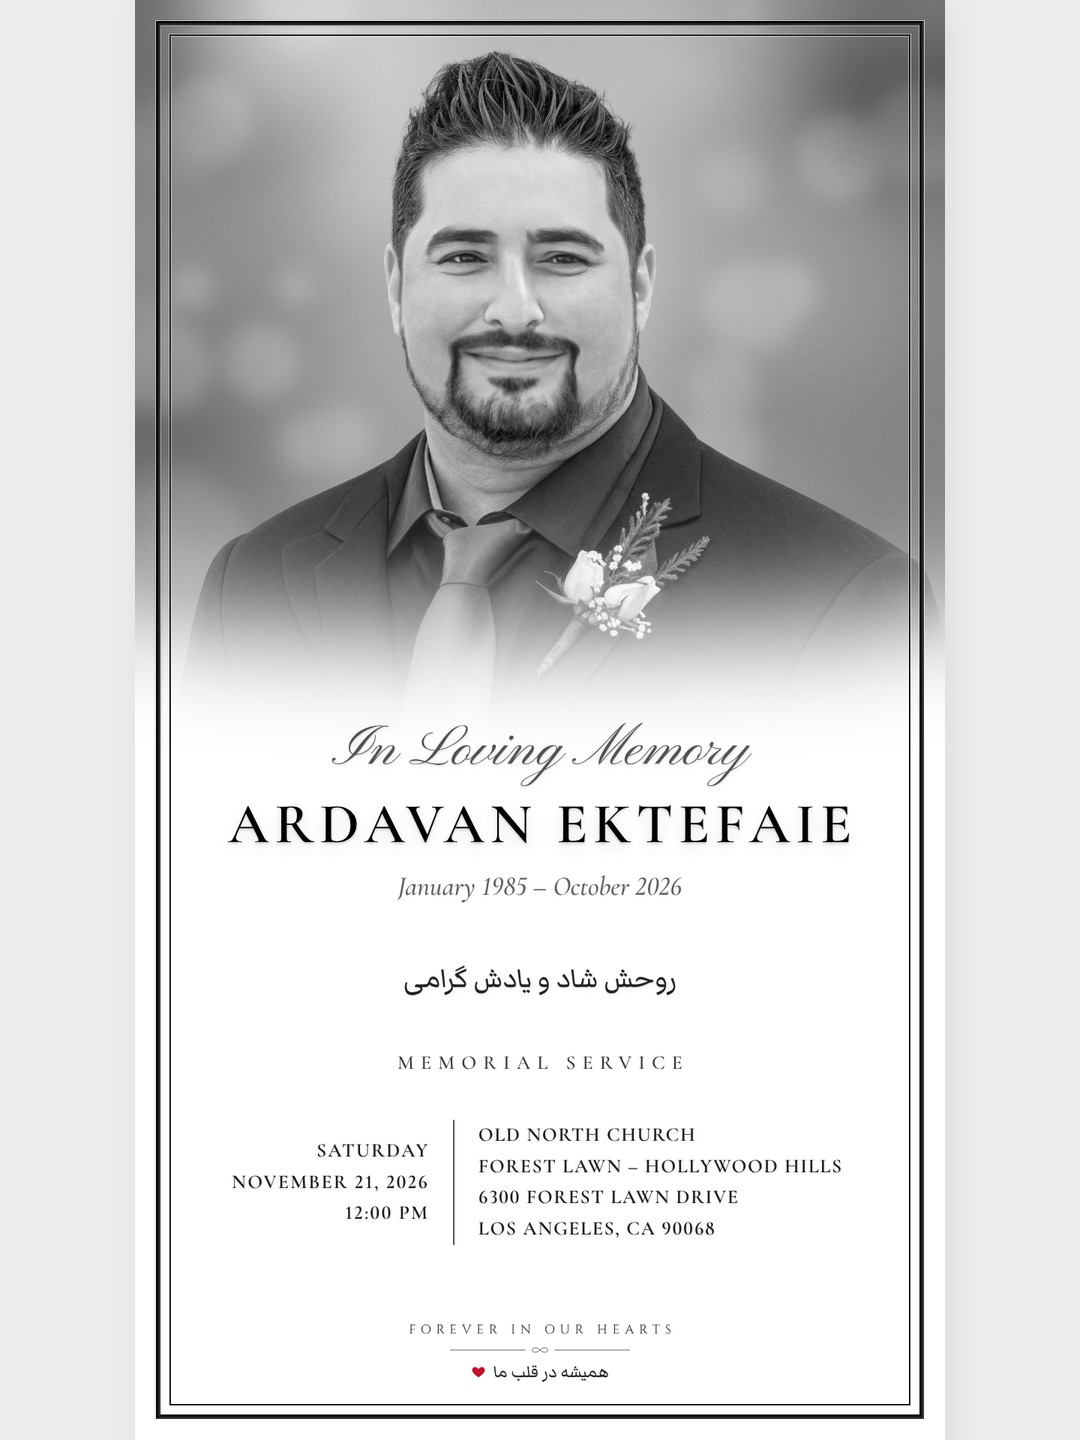
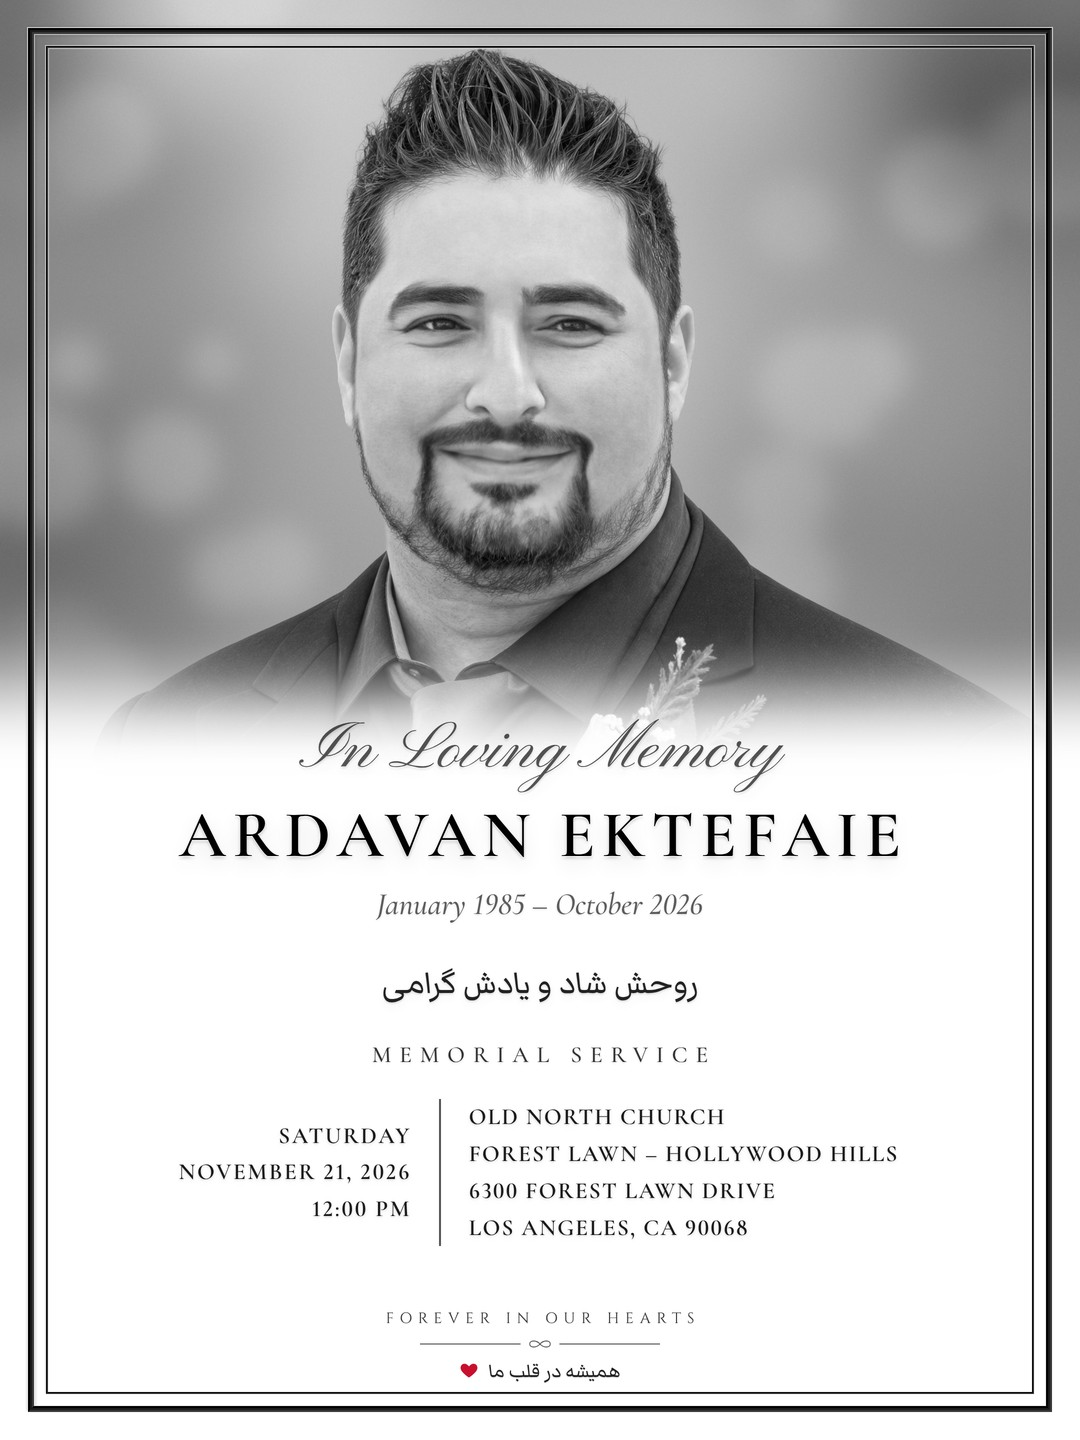
Full-frame 3:4 link preview
Claude-Session: https://claude.ai/code/session_0142ruPKHYpWkpyq8hcYasmp

diff --git a/index.html b/index.html
@@ -10,7 +10,7 @@
 <meta property="og:url" content="https://ardavan-ektefaie.pages.dev/">
 <meta property="og:title" content="Memorial Service for Ardavan Ektefaie">
 <meta property="og:description" content="Saturday, November 21, 2026 · 12:00 PM · Old North Church, Forest Lawn – Hollywood Hills">
-<meta property="og:image" content="https://ardavan-ektefaie.pages.dev/preview.jpg">
+<meta property="og:image" content="https://ardavan-ektefaie.pages.dev/preview.jpg?v=2">
 <meta property="og:image:width" content="1080">
 <meta property="og:image:height" content="1440">
 <meta property="og:image:alt" content="Memorial invitation for Ardavan Ektefaie">
